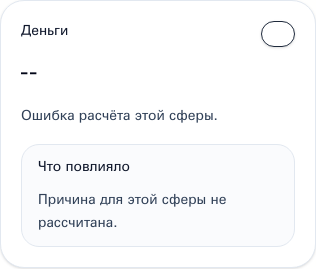
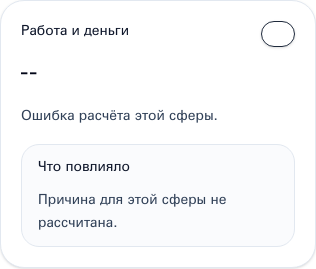
Lock Day canon labels and version policy

Changed region(s): [[0.057, 0.0892, 0.4272, 0.1487]]

diff --git a/frontend/test/lib/day-brief.test.ts b/frontend/test/lib/day-brief.test.ts
@@ -6,6 +6,7 @@ describe('day-brief helpers', () => {
     expect(normalizeDayBriefPayload('bad payload')).toBeNull();
     expect(normalizeDayBriefPayload({ general_vibe: 'legacy' })).toBeNull();
     expect(normalizeDayBriefPayload({ day_brief: { version: 'day_brief_v1' } })).toBeNull();
+    expect(normalizeDayBriefPayload({ day_brief: { version: 'day_brief_v2' } })).toBeNull();
   });
 
   it('normalizes strict canonical payload into hero plus four domains only', () => {
@@ -24,7 +25,7 @@ describe('day-brief helpers', () => {
         domains: {
           energy: {
             key: 'energy',
-            title: 'Энергия',
+            title: 'Тонус',
             score_status: 'complete',
             score: 78,
             status: 'green',
@@ -36,7 +37,7 @@ describe('day-brief helpers', () => {
           },
           money: {
             key: 'money',
-            title: 'Деньги',
+            title: 'Работа и деньги',
             score_status: 'complete',
             score: 64,
             status: 'yellow',
@@ -48,7 +49,7 @@ describe('day-brief helpers', () => {
           },
           love: {
             key: 'love',
-            title: 'Любовь',
+            title: 'Чувства',
             score_status: 'missing',
             score: null,
             status: null,
@@ -103,9 +104,9 @@ describe('day-brief helpers', () => {
       personalization_level: 'personalized_v2',
       hero: { title: 'День без полного слоя', subtitle: 'Часть полей отсутствует', day_type: 'balance' },
       domains: {
-        energy: { key: 'energy', title: 'Энергия', score_status: 'missing', score: null, status: null, description_status: 'missing', description: null, why_status: 'missing', why_astro_text: null, evidence_refs: [] },
-        money: { key: 'money', title: 'Деньги', score_status: 'missing', score: null, status: null, description_status: 'missing', description: null, why_status: 'missing', why_astro_text: null, evidence_refs: [] },
-        love: { key: 'love', title: 'Любовь', score_status: 'missing', score: null, status: null, description_status: 'missing', description: null, why_status: 'missing', why_astro_text: null, evidence_refs: [] },
+        energy: { key: 'energy', title: 'Тонус', score_status: 'missing', score: null, status: null, description_status: 'missing', description: null, why_status: 'missing', why_astro_text: null, evidence_refs: [] },
+        money: { key: 'money', title: 'Работа и деньги', score_status: 'missing', score: null, status: null, description_status: 'missing', description: null, why_status: 'missing', why_astro_text: null, evidence_refs: [] },
+        love: { key: 'love', title: 'Чувства', score_status: 'missing', score: null, status: null, description_status: 'missing', description: null, why_status: 'missing', why_astro_text: null, evidence_refs: [] },
         focus: { key: 'focus', title: 'Фокус', score_status: 'missing', score: null, status: null, description_status: 'missing', description: null, why_status: 'missing', why_astro_text: null, evidence_refs: [] },
       },
     });
@@ -122,9 +123,9 @@ describe('day-brief helpers', () => {
       personalization_level: 'personalized_v2',
       hero: { title: 'Ошибка', subtitle: 'Расчёт не завершён', day_type: 'balance' },
       domains: {
-        energy: { key: 'energy', title: 'Энергия', score_status: 'failed', score: null, status: null, description_status: 'failed', description: null, why_status: 'failed', why_astro_text: null, evidence_refs: [] },
-        money: { key: 'money', title: 'Деньги', score_status: 'failed', score: null, status: null, description_status: 'failed', description: null, why_status: 'failed', why_astro_text: null, evidence_refs: [] },
-        love: { key: 'love', title: 'Любовь', score_status: 'failed', score: null, status: null, description_status: 'failed', description: null, why_status: 'failed', why_astro_text: null, evidence_refs: [] },
+        energy: { key: 'energy', title: 'Тонус', score_status: 'failed', score: null, status: null, description_status: 'failed', description: null, why_status: 'failed', why_astro_text: null, evidence_refs: [] },
+        money: { key: 'money', title: 'Работа и деньги', score_status: 'failed', score: null, status: null, description_status: 'failed', description: null, why_status: 'failed', why_astro_text: null, evidence_refs: [] },
+        love: { key: 'love', title: 'Чувства', score_status: 'failed', score: null, status: null, description_status: 'failed', description: null, why_status: 'failed', why_astro_text: null, evidence_refs: [] },
         focus: { key: 'focus', title: 'Фокус', score_status: 'failed', score: null, status: null, description_status: 'failed', description: null, why_status: 'failed', why_astro_text: null, evidence_refs: [] },
       },
     });
@@ -134,15 +135,15 @@ describe('day-brief helpers', () => {
 
   it('tracks complete domain status precisely', () => {
     const result = normalizeDayBriefPayload({
-      version: 'day_brief_v2',
+      version: 'day_brief_canon_v1',
       status: 'partial',
       date: '2026-04-10',
       personalization_level: 'personalized_v2',
       hero: { title: 'Частичный день', subtitle: 'Одна сфера готова', day_type: 'balance' },
       domains: {
-        energy: { key: 'energy', title: 'Энергия', score_status: 'complete', score: 80, status: 'green', description_status: 'complete', description: 'Есть ресурс.', why_status: 'complete', why_astro_text: 'Твой Марс собран.', evidence_refs: [] },
-        money: { key: 'money', title: 'Деньги', score_status: 'missing', score: null, status: null, description_status: 'missing', description: null, why_status: 'missing', why_astro_text: null, evidence_refs: [] },
-        love: { key: 'love', title: 'Любовь', score_status: 'missing', score: null, status: null, description_status: 'missing', description: null, why_status: 'missing', why_astro_text: null, evidence_refs: [] },
+        energy: { key: 'energy', title: 'Тонус', score_status: 'complete', score: 80, status: 'green', description_status: 'complete', description: 'Есть ресурс.', why_status: 'complete', why_astro_text: 'Твой Марс собран.', evidence_refs: [] },
+        money: { key: 'money', title: 'Работа и деньги', score_status: 'missing', score: null, status: null, description_status: 'missing', description: null, why_status: 'missing', why_astro_text: null, evidence_refs: [] },
+        love: { key: 'love', title: 'Чувства', score_status: 'missing', score: null, status: null, description_status: 'missing', description: null, why_status: 'missing', why_astro_text: null, evidence_refs: [] },
         focus: { key: 'focus', title: 'Фокус', score_status: 'missing', score: null, status: null, description_status: 'missing', description: null, why_status: 'missing', why_astro_text: null, evidence_refs: [] },
       },
     });

diff --git a/frontend/test/app/home-page.test.tsx b/frontend/test/app/home-page.test.tsx
@@ -114,9 +114,9 @@ describe('FeedPage', () => {
               day_type: 'balance',
             },
             domains: {
-              energy: { key: 'energy', title: 'Энергия', score_status: 'complete', score: 71, status: 'green', description_status: 'complete', description: 'Есть рабочий ресурс на главное.', why_status: 'complete', why_astro_text: 'Твой Марс собран и не распыляется.', evidence_refs: [] },
-              money: { key: 'money', title: 'Деньги', score_status: 'complete', score: 64, status: 'yellow', description_status: 'complete', description: 'Нужны точные цифры и один приоритет.', why_status: 'complete', why_astro_text: 'Твой 2-й дом денег сегодня требует внимательности.', evidence_refs: [] },
-              love: { key: 'love', title: 'Любовь', score_status: 'complete', score: 59, status: 'yellow', description_status: 'complete', description: 'Контакт требует мягкого тона.', why_status: 'complete', why_astro_text: 'Твоя Венера просит бережной подачи.', evidence_refs: [] },
+              energy: { key: 'energy', title: 'Тонус', score_status: 'complete', score: 71, status: 'green', description_status: 'complete', description: 'Есть рабочий ресурс на главное.', why_status: 'complete', why_astro_text: 'Твой Марс собран и не распыляется.', evidence_refs: [] },
+              money: { key: 'money', title: 'Работа и деньги', score_status: 'complete', score: 64, status: 'yellow', description_status: 'complete', description: 'Нужны точные цифры и один приоритет.', why_status: 'complete', why_astro_text: 'Твой 2-й дом денег сегодня требует внимательности.', evidence_refs: [] },
+              love: { key: 'love', title: 'Чувства', score_status: 'complete', score: 59, status: 'yellow', description_status: 'complete', description: 'Контакт требует мягкого тона.', why_status: 'complete', why_astro_text: 'Твоя Венера просит бережной подачи.', evidence_refs: [] },
               focus: { key: 'focus', title: 'Фокус', score_status: 'complete', score: 77, status: 'green', description_status: 'complete', description: 'Один главный ход даёт лучший результат.', why_status: 'complete', why_astro_text: 'Твой Меркурий сегодня лучше работает в одной линии.', evidence_refs: [] },
             },
           },
@@ -152,9 +152,9 @@ describe('FeedPage', () => {
             personalization_level: 'personalized_v2',
             hero: { title: 'День без полного слоя', subtitle: 'Часть полей отсутствует', day_type: 'balance' },
             domains: {
-              energy: { key: 'energy', title: 'Энергия', score_status: 'missing', score: null, status: null, description_status: 'missing', description: null, why_status: 'missing', why_astro_text: null, evidence_refs: [] },
-              money: { key: 'money', title: 'Деньги', score_status: 'missing', score: null, status: null, description_status: 'missing', description: null, why_status: 'missing', why_astro_text: null, evidence_refs: [] },
-              love: { key: 'love', title: 'Любовь', score_status: 'missing', score: null, status: null, description_status: 'missing', description: null, why_status: 'missing', why_astro_text: null, evidence_refs: [] },
+              energy: { key: 'energy', title: 'Тонус', score_status: 'missing', score: null, status: null, description_status: 'missing', description: null, why_status: 'missing', why_astro_text: null, evidence_refs: [] },
+              money: { key: 'money', title: 'Работа и деньги', score_status: 'missing', score: null, status: null, description_status: 'missing', description: null, why_status: 'missing', why_astro_text: null, evidence_refs: [] },
+              love: { key: 'love', title: 'Чувства', score_status: 'missing', score: null, status: null, description_status: 'missing', description: null, why_status: 'missing', why_astro_text: null, evidence_refs: [] },
               focus: { key: 'focus', title: 'Фокус', score_status: 'missing', score: null, status: null, description_status: 'missing', description: null, why_status: 'missing', why_astro_text: null, evidence_refs: [] },
             },
           },

diff --git a/frontend/e2e/day-canon-visual-evidence.spec.ts b/frontend/e2e/day-canon-visual-evidence.spec.ts
@@ -31,7 +31,7 @@ function canonicalDomains(): Record<'energy' | 'money' | 'love' | 'focus', DayBr
   return {
     energy: {
       key: 'energy',
-      title: 'Энергия',
+      title: 'Тонус',
       score_status: 'complete',
       score: 74,
       status: 'green',
@@ -43,7 +43,7 @@ function canonicalDomains(): Record<'energy' | 'money' | 'love' | 'focus', DayBr
     },
     money: {
       key: 'money',
-      title: 'Деньги',
+      title: 'Работа и деньги',
       score_status: 'complete',
       score: 63,
       status: 'yellow',
@@ -55,7 +55,7 @@ function canonicalDomains(): Record<'energy' | 'money' | 'love' | 'focus', DayBr
     },
     love: {
       key: 'love',
-      title: 'Отношения',
+      title: 'Чувства',
       score_status: 'complete',
       score: 58,
       status: 'yellow',
@@ -143,9 +143,9 @@ test.describe('day canon branch-visible visual evidence', () => {
         day_type: 'balance',
       },
       domains: {
-        energy: { key: 'energy', title: 'Энергия', score_status: 'missing', score: null, status: null, description_status: 'missing', description: null, why_status: 'missing', why_astro_text: null, evidence_refs: [] },
-        money: { key: 'money', title: 'Деньги', score_status: 'missing', score: null, status: null, description_status: 'missing', description: null, why_status: 'missing', why_astro_text: null, evidence_refs: [] },
-        love: { key: 'love', title: 'Отношения', score_status: 'missing', score: null, status: null, description_status: 'missing', description: null, why_status: 'missing', why_astro_text: null, evidence_refs: [] },
+        energy: { key: 'energy', title: 'Тонус', score_status: 'missing', score: null, status: null, description_status: 'missing', description: null, why_status: 'missing', why_astro_text: null, evidence_refs: [] },
+        money: { key: 'money', title: 'Работа и деньги', score_status: 'missing', score: null, status: null, description_status: 'missing', description: null, why_status: 'missing', why_astro_text: null, evidence_refs: [] },
+        love: { key: 'love', title: 'Чувства', score_status: 'missing', score: null, status: null, description_status: 'missing', description: null, why_status: 'missing', why_astro_text: null, evidence_refs: [] },
         focus: { key: 'focus', title: 'Фокус', score_status: 'missing', score: null, status: null, description_status: 'missing', description: null, why_status: 'missing', why_astro_text: null, evidence_refs: [] },
       },
       cta: { primary: { type: 'open_week', label: 'Открыть неделю', href: '/week' } },
@@ -170,9 +170,9 @@ test.describe('day canon branch-visible visual evidence', () => {
         day_type: 'caution',
       },
       domains: {
-        energy: { key: 'energy', title: 'Энергия', score_status: 'failed', score: null, status: null, description_status: 'failed', description: null, why_status: 'failed', why_astro_text: null, evidence_refs: [] },
-        money: { key: 'money', title: 'Деньги', score_status: 'failed', score: null, status: null, description_status: 'failed', description: null, why_status: 'failed', why_astro_text: null, evidence_refs: [] },
-        love: { key: 'love', title: 'Отношения', score_status: 'failed', score: null, status: null, description_status: 'failed', description: null, why_status: 'failed', why_astro_text: null, evidence_refs: [] },
+        energy: { key: 'energy', title: 'Тонус', score_status: 'failed', score: null, status: null, description_status: 'failed', description: null, why_status: 'failed', why_astro_text: null, evidence_refs: [] },
+        money: { key: 'money', title: 'Работа и деньги', score_status: 'failed', score: null, status: null, description_status: 'failed', description: null, why_status: 'failed', why_astro_text: null, evidence_refs: [] },
+        love: { key: 'love', title: 'Чувства', score_status: 'failed', score: null, status: null, description_status: 'failed', description: null, why_status: 'failed', why_astro_text: null, evidence_refs: [] },
         focus: { key: 'focus', title: 'Фокус', score_status: 'failed', score: null, status: null, description_status: 'failed', description: null, why_status: 'failed', why_astro_text: null, evidence_refs: [] },
       },
       cta: { primary: { type: 'open_week', label: 'Открыть неделю', href: '/week' } },

diff --git a/frontend/test/components/today/daybrief-sections.test.tsx b/frontend/test/components/today/daybrief-sections.test.tsx
@@ -25,7 +25,7 @@ const buildBrief = (): DayBriefDto => ({
   domains: {
     energy: {
       key: 'energy',
-      title: 'Энергия',
+      title: 'Тонус',
       score_status: 'complete',
       score: 82,
       status: 'green',
@@ -37,7 +37,7 @@ const buildBrief = (): DayBriefDto => ({
     },
     money: {
       key: 'money',
-      title: 'Деньги',
+      title: 'Работа и деньги',
       score_status: 'complete',
       score: 68,
       status: 'yellow',
@@ -49,7 +49,7 @@ const buildBrief = (): DayBriefDto => ({
     },
     love: {
       key: 'love',
-      title: 'Любовь',
+      title: 'Чувства',
       score_status: 'missing',
       score: null,
       status: null,
@@ -118,6 +118,11 @@ describe('daybrief sections', () => {
   it('renders honest no-data and error states inside domain cards', () => {
     render(React.createElement(TodayScores, { brief: buildBrief(), onScoreTap: jest.fn() }));
 
+    expect(screen.getByText('Тонус')).toBeInTheDocument();
+    expect(screen.getByText('Работа и деньги')).toBeInTheDocument();
+    expect(screen.getByText('Чувства')).toBeInTheDocument();
+    expect(screen.getByText('Фокус')).toBeInTheDocument();
+
     expect(screen.getByTestId('today-score-love')).toHaveTextContent('Нет данных');
     expect(screen.getByTestId('today-score-love')).toHaveTextContent('Нет данных по этой сфере.');
     expect(screen.getByTestId('today-score-love')).toHaveTextContent('Для этой сферы пока нет персонального астрологического объяснения.');
@@ -131,7 +136,7 @@ describe('daybrief sections', () => {
     const onScoreTap = jest.fn();
     render(React.createElement(TodayScores, { brief: buildBrief(), onScoreTap }));
 
-    fireEvent.click(screen.getByLabelText('Энергия: 82'));
+    fireEvent.click(screen.getByLabelText('Тонус: 82'));
     expect(onScoreTap).toHaveBeenCalledWith('energy', 82);
     expect(screen.queryByLabelText('Любовь: 0')).not.toBeInTheDocument();
     expect(screen.queryByLabelText('Фокус: 0')).not.toBeInTheDocument();

diff --git a/frontend/lib/day-brief.ts b/frontend/lib/day-brief.ts
@@ -37,7 +37,7 @@ export type DayDomainCard = {
 };
 
 export type DayBriefDto = {
-  version: "day_brief_canon_v1" | "day_brief_v2";
+  version: "day_brief_canon_v1";
   status: "complete" | "partial" | "failed";
   date: string;
   personalization_level: string;
@@ -71,9 +71,9 @@ export type TodayViewModel = {
 const DAY_KEYS: DayBriefScoreKey[] = ["energy", "money", "love", "focus"];
 
 const DAY_TITLES: Record<DayBriefScoreKey, string> = {
-  energy: "Энергия",
-  money: "Деньги",
-  love: "Любовь",
+  energy: "Тонус",
+  money: "Работа и деньги",
+  love: "Чувства",
   focus: "Фокус",
 };
 
@@ -149,7 +149,7 @@ export function normalizeDayBriefPayload(payload: unknown, profile?: { subscript
   if (!isRecord(source)) return null;
 
   const version = text(source.version);
-  if (version !== "day_brief_canon_v1" && version !== "day_brief_v2") {
+  if (version !== "day_brief_canon_v1") {
     return null;
   }
 

diff --git a/docs/review_evidence/front/day-week/2026-04-10-d479771/post-test-review.md b/docs/review_evidence/front/day-week/2026-04-10-d479771/post-test-review.md
@@ -1,68 +1,35 @@
-# Post-test observability gate — PASS_CLEAN
+# Post-test observability gate — FAIL_NO_EVIDENCE
 
 - profile: `today-week`
 - analysis_window: `30m`
 - logs_reviewed: `/opt/astro-project/logs/feed.jsonl`, `/opt/astro-project/logs/report.jsonl`
 
-## FLOW-TODAY-WEEK-TODAY — clean
-- records_checked: 12
-- last_timestamp: `2026-04-10T19:48:06.475449+00:00`
+## FLOW-TODAY-WEEK-TODAY — no-evidence-blocker
+- records_checked: 0
+- last_timestamp: `None`
 - fallback_count: 0
 - sample_trace_id: `None`
 - sample_correlation_id: `None`
 - sample_report_id: `None`
 - reason_codes: -
-- alerts: -
+- alerts: no recent today/day brief evidence, rendered summaries present without canonical logs
 - rendered_presence: count=3 pass_modes=both,site_web,telegram_webapp site_web=True telegram_webapp=True parity_present=True
 - rendered_statuses: passed
 - rendered_assertion_classes: rendered_harness, rendered_hygiene, rendered_parity
 - rendered_parity_statuses: pilot_dom_model_invariants, pilot_same_assertion_surface
-- rendered_verdict_notes: rendered evidence is additive and does not replace canonical logs/traces, canonical evidence clean; rendered evidence attached as supporting slice, rendered parity metadata detected, rendered both/pass pilot semantics materialized without replacing wrapper verdict model
-- evidence_samples:
-  - day_brief.built @ 2026-04-10T19:48:06.472673Z trace=- corr=- report=- reason=-
-  - day_brief.built @ 2026-04-10T19:48:06.475449Z trace=- corr=- report=- reason=-
+- rendered_verdict_notes: rendered evidence is additive and does not replace canonical logs/traces, rendered evidence present but canonical source-of-truth evidence missing, rendered parity metadata detected, rendered both/pass pilot semantics materialized without replacing wrapper verdict model
 
-## FLOW-TODAY-WEEK-WEEK — clean
-- records_checked: 10
-- last_timestamp: `2026-04-10T19:48:43.986057+00:00`
+## FLOW-TODAY-WEEK-WEEK — no-evidence-blocker
+- records_checked: 0
+- last_timestamp: `None`
 - fallback_count: 0
-- sample_trace_id: `8e2eebac-8723-4101-94e9-f8113b4e6c9f`
-- sample_correlation_id: `dc77b6e6-20f1-45c8-8896-6768e79bd82f`
-- sample_report_id: `00321883-8106-4091-9513-37bf03dc6a2d`
+- sample_trace_id: `None`
+- sample_correlation_id: `None`
+- sample_report_id: `None`
 - reason_codes: -
-- alerts: -
+- alerts: no recent week/report evidence, rendered summaries present without canonical logs
 - rendered_presence: count=3 pass_modes=both,site_web,telegram_webapp site_web=True telegram_webapp=True parity_present=True
 - rendered_statuses: passed
 - rendered_assertion_classes: rendered_harness, rendered_hygiene, rendered_parity
 - rendered_parity_statuses: pilot_dom_model_invariants, pilot_same_assertion_surface
-- rendered_verdict_notes: rendered evidence is additive and does not replace canonical logs/traces, canonical evidence clean; rendered evidence attached as supporting slice, rendered parity metadata detected, rendered both/pass pilot semantics materialized without replacing wrapper verdict model
-- evidence_samples:
-  - report.workflow.generation_complete @ 2026-04-10T19:48:43.985428Z trace=8e2eebac-8723-4101-94e9-f8113b4e6c9f corr=dc77b6e6-20f1-45c8-8896-6768e79bd82f report=00321883-8106-4091-9513-37bf03dc6a2d reason=-
-  - report.workflow.generation_complete @ 2026-04-10T19:48:43.986057Z trace=8e2eebac-8723-4101-94e9-f8113b4e6c9f corr=dc77b6e6-20f1-45c8-8896-6768e79bd82f report=00321883-8106-4091-9513-37bf03dc6a2d reason=-
-
-## Latest feed replay
-{
-  "events": [
-    "day_brief.built",
-    "day_brief.built",
-    "day_brief.built",
-    "day_brief.built",
-    "day_brief.built",
-    "day_brief.built",
-    "day_brief.built",
-    "day_brief.built",
-    "day_brief.built",
-    "day_brief.built",
-    "day_brief.built",
-    "day_brief.built"
-  ],
-  "auth": null,
-  "personalization_level": "personalized_v2",
-  "prompt_path": null,
-  "fallback": false,
-  "fallback_reason": null,
-  "cache_hit": false,
-  "cache_scope": null,
-  "location": null,
-  "timezone": null
-}
+- rendered_verdict_notes: rendered evidence is additive and does not replace canonical logs/traces, rendered evidence present but canonical source-of-truth evidence missing, rendered parity metadata detected, rendered both/pass pilot semantics materialized without replacing wrapper verdict model

diff --git a/docs/review_evidence/front/day-week/2026-04-10-d479771/README.md b/docs/review_evidence/front/day-week/2026-04-10-d479771/README.md
@@ -15,9 +15,9 @@
 | File | Lane | Notes |
 | --- | --- | --- |
 | today-canonical-top.png | mock-helper | strict canonical Day top: hero + 4 domains only |
-| today-canonical-domain-energy-expanded.png | mock-helper | canonical Today, energy card expanded |
-| today-canonical-domain-money-expanded.png | mock-helper | canonical Today, work/money card expanded |
-| today-canonical-domain-love-expanded.png | mock-helper | canonical Today, love card expanded |
+| today-canonical-domain-energy-expanded.png | mock-helper | canonical Today, Тонус expanded |
+| today-canonical-domain-money-expanded.png | mock-helper | canonical Today, Работа и деньги expanded |
+| today-canonical-domain-love-expanded.png | mock-helper | canonical Today, Чувства expanded |
 | today-canonical-domain-focus-expanded.png | mock-helper | canonical Today, focus card expanded |
 | today-no-data.png | mock-helper | explicit canonical no-data state without fallback prose |
 | today-error.png | mock-helper | explicit canonical error state without fallback substitution |
@@ -44,10 +44,10 @@
 - Day publication proof now lists only current strict Day artifacts; stale Day windows/risks/bottom/degraded references are removed.
 - Compatibility screenshots are intentionally lighter than canonical ones and must not be used as premium-reference images.
 - What changed in this wave:
-  - Today is reset to strict Day canon: hero + exactly four domain cards, without windows, best-use, risks, factor cards, or signal badges;
-  - canonical Day cards now expose only score, status, description, and one continuous `Что повлияло`;
-  - explicit no-data and domain-failed states were verified in fresh Playwright capture runs for this packet;
-  - legacy/non-canonical Day payloads no longer masquerade as premium Today content.
+  - Day domain titles are locked to `Тонус / Работа и деньги / Чувства / Фокус`;
+  - adapter now accepts only `day_brief_canon_v1` and rejects bridge `day_brief_v2`;
+  - partial-ready semantics remain intentionally allowed only when at least one complete domain exists; otherwise the route collapses to `no_data`;
+  - explicit no-data, error, and domain-failed states were re-captured after the label lock.
 - Forbidden-token and fallback-copy pass completed for visible Day surfaces:
   - checked canonical, no-data, and domain-failed captures for internal/fallback leakage;
   - checked that Day UI no longer renders windows, best-use, risks, factor cards, or signal badges.
